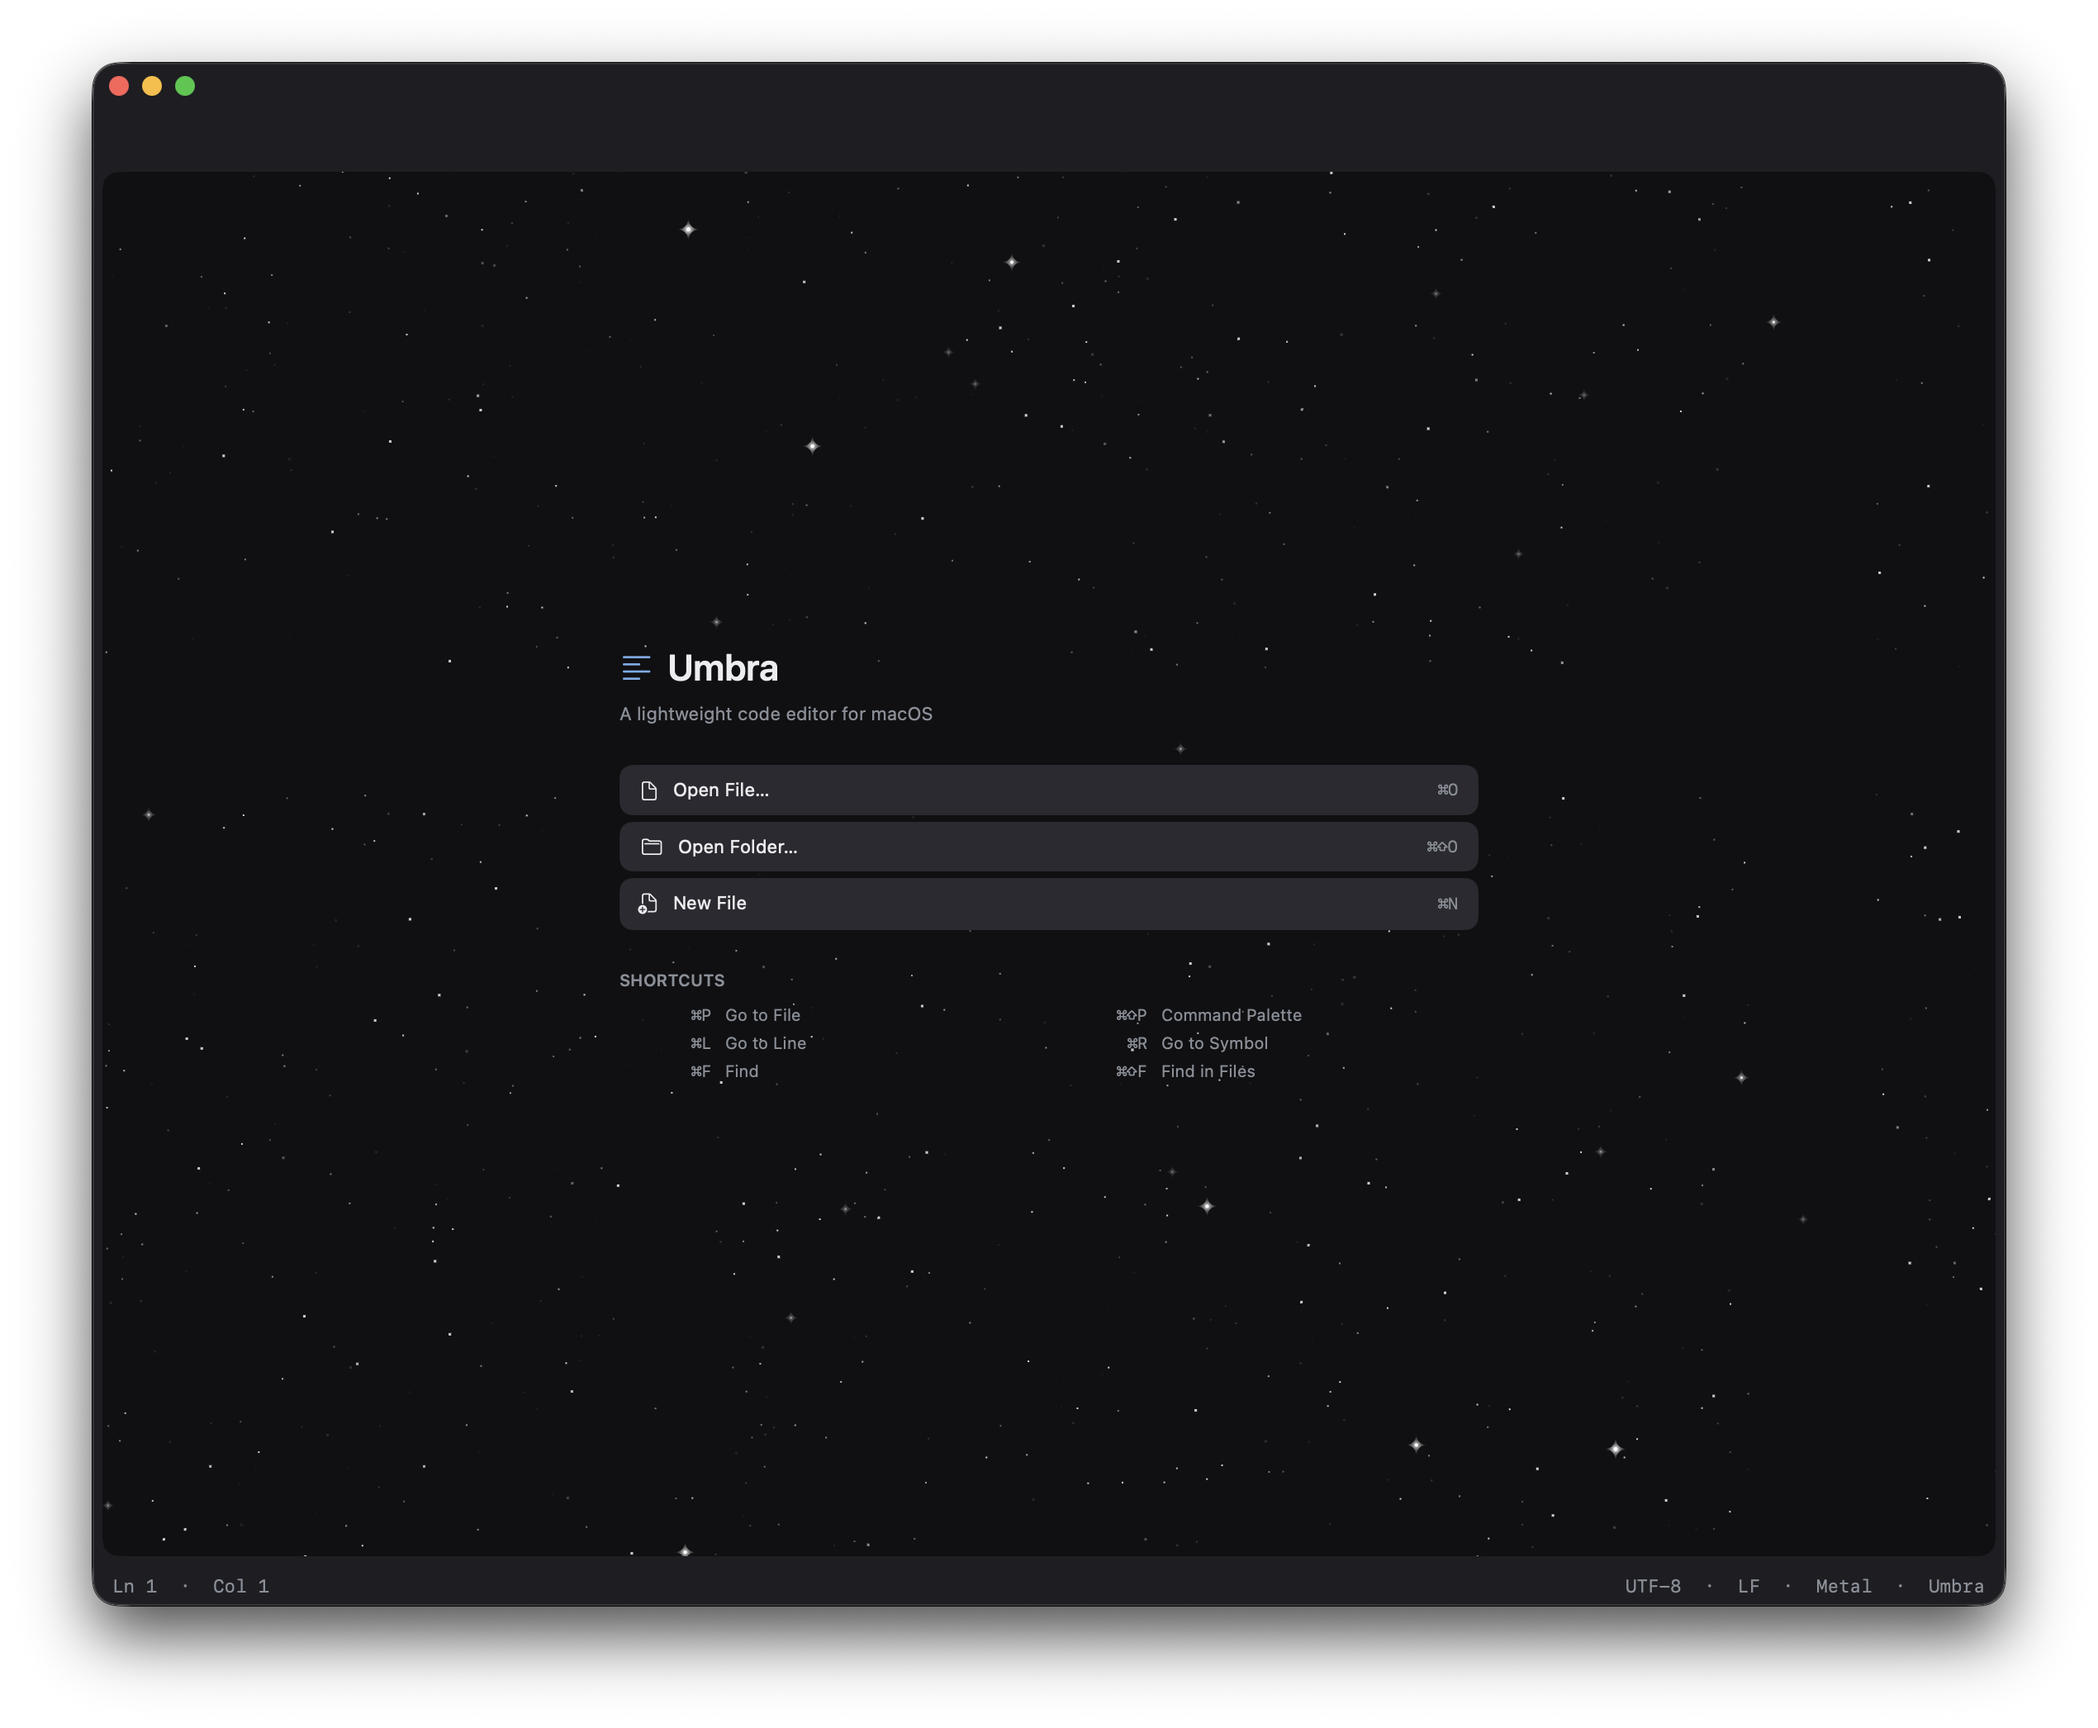
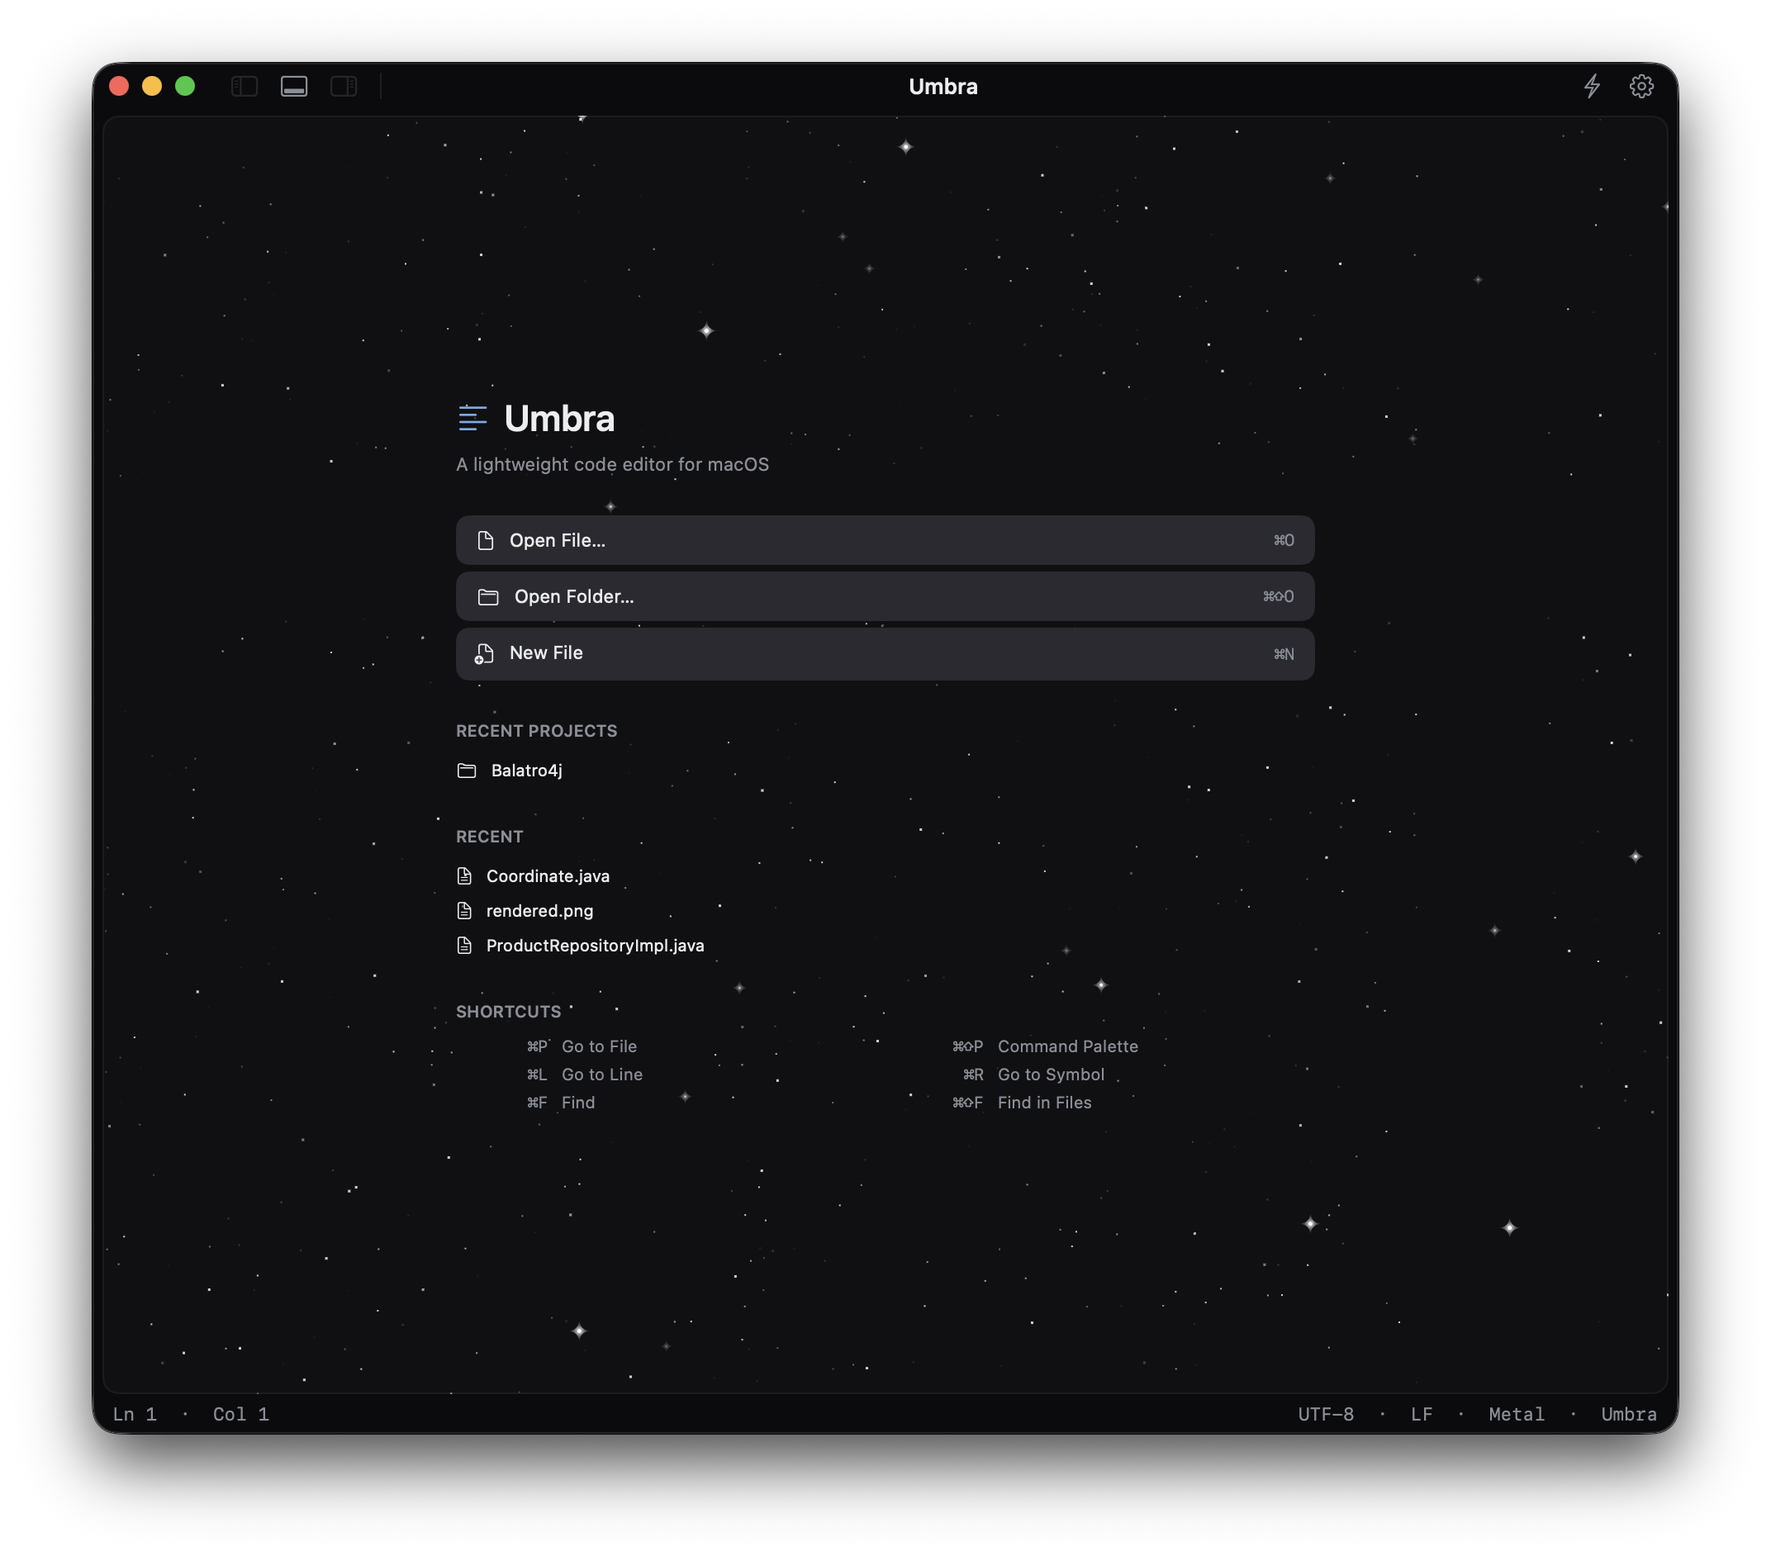
Restore the project folder in unsandboxed builds and refresh the welcome screenshot
Session restore fell back to nothing when a security-scoped bookmark could
not be created or resolved (`swift run`), so the project was dropped. It now
falls back to a plain bookmark and skips a folder that no longer exists.

diff --git a/Example/Umbra/IDEProjectModel.swift b/Example/Umbra/IDEProjectModel.swift
@@ -80,14 +80,20 @@ final class IDEProjectModel {
     func rootURL(from bookmarkData: Data?) -> URL? {
         guard let bookmarkData else { return nil }
         var isStale = false
-        guard let url = try? URL(
+        // An unsandboxed build (`swift run`) can't create or resolve a security-scoped bookmark,
+        // so fall back to a plain one instead of dropping the project.
+        let url = (try? URL(
             resolvingBookmarkData: bookmarkData,
             options: [.withSecurityScope],
             relativeTo: nil,
             bookmarkDataIsStale: &isStale
-        ) else {
-            return nil
-        }
+        )) ?? (try? URL(
+            resolvingBookmarkData: bookmarkData,
+            options: [],
+            relativeTo: nil,
+            bookmarkDataIsStale: &isStale
+        ))
+        guard let url, FileManager.default.fileExists(atPath: url.path) else { return nil }
         _ = url.startAccessingSecurityScopedResource()
         return url
     }
@@ -98,11 +104,15 @@ final class IDEProjectModel {
 
     func makeBookmarkData() -> Data? {
         guard let rootURL else { return nil }
-        return try? rootURL.bookmarkData(
+        return (try? rootURL.bookmarkData(
             options: [.withSecurityScope],
             includingResourceValuesForKeys: nil,
             relativeTo: nil
-        )
+        )) ?? (try? rootURL.bookmarkData(
+            options: [],
+            includingResourceValuesForKeys: nil,
+            relativeTo: nil
+        ))
     }
 
     func toggleExpanded(_ node: IDEFileNode) {
